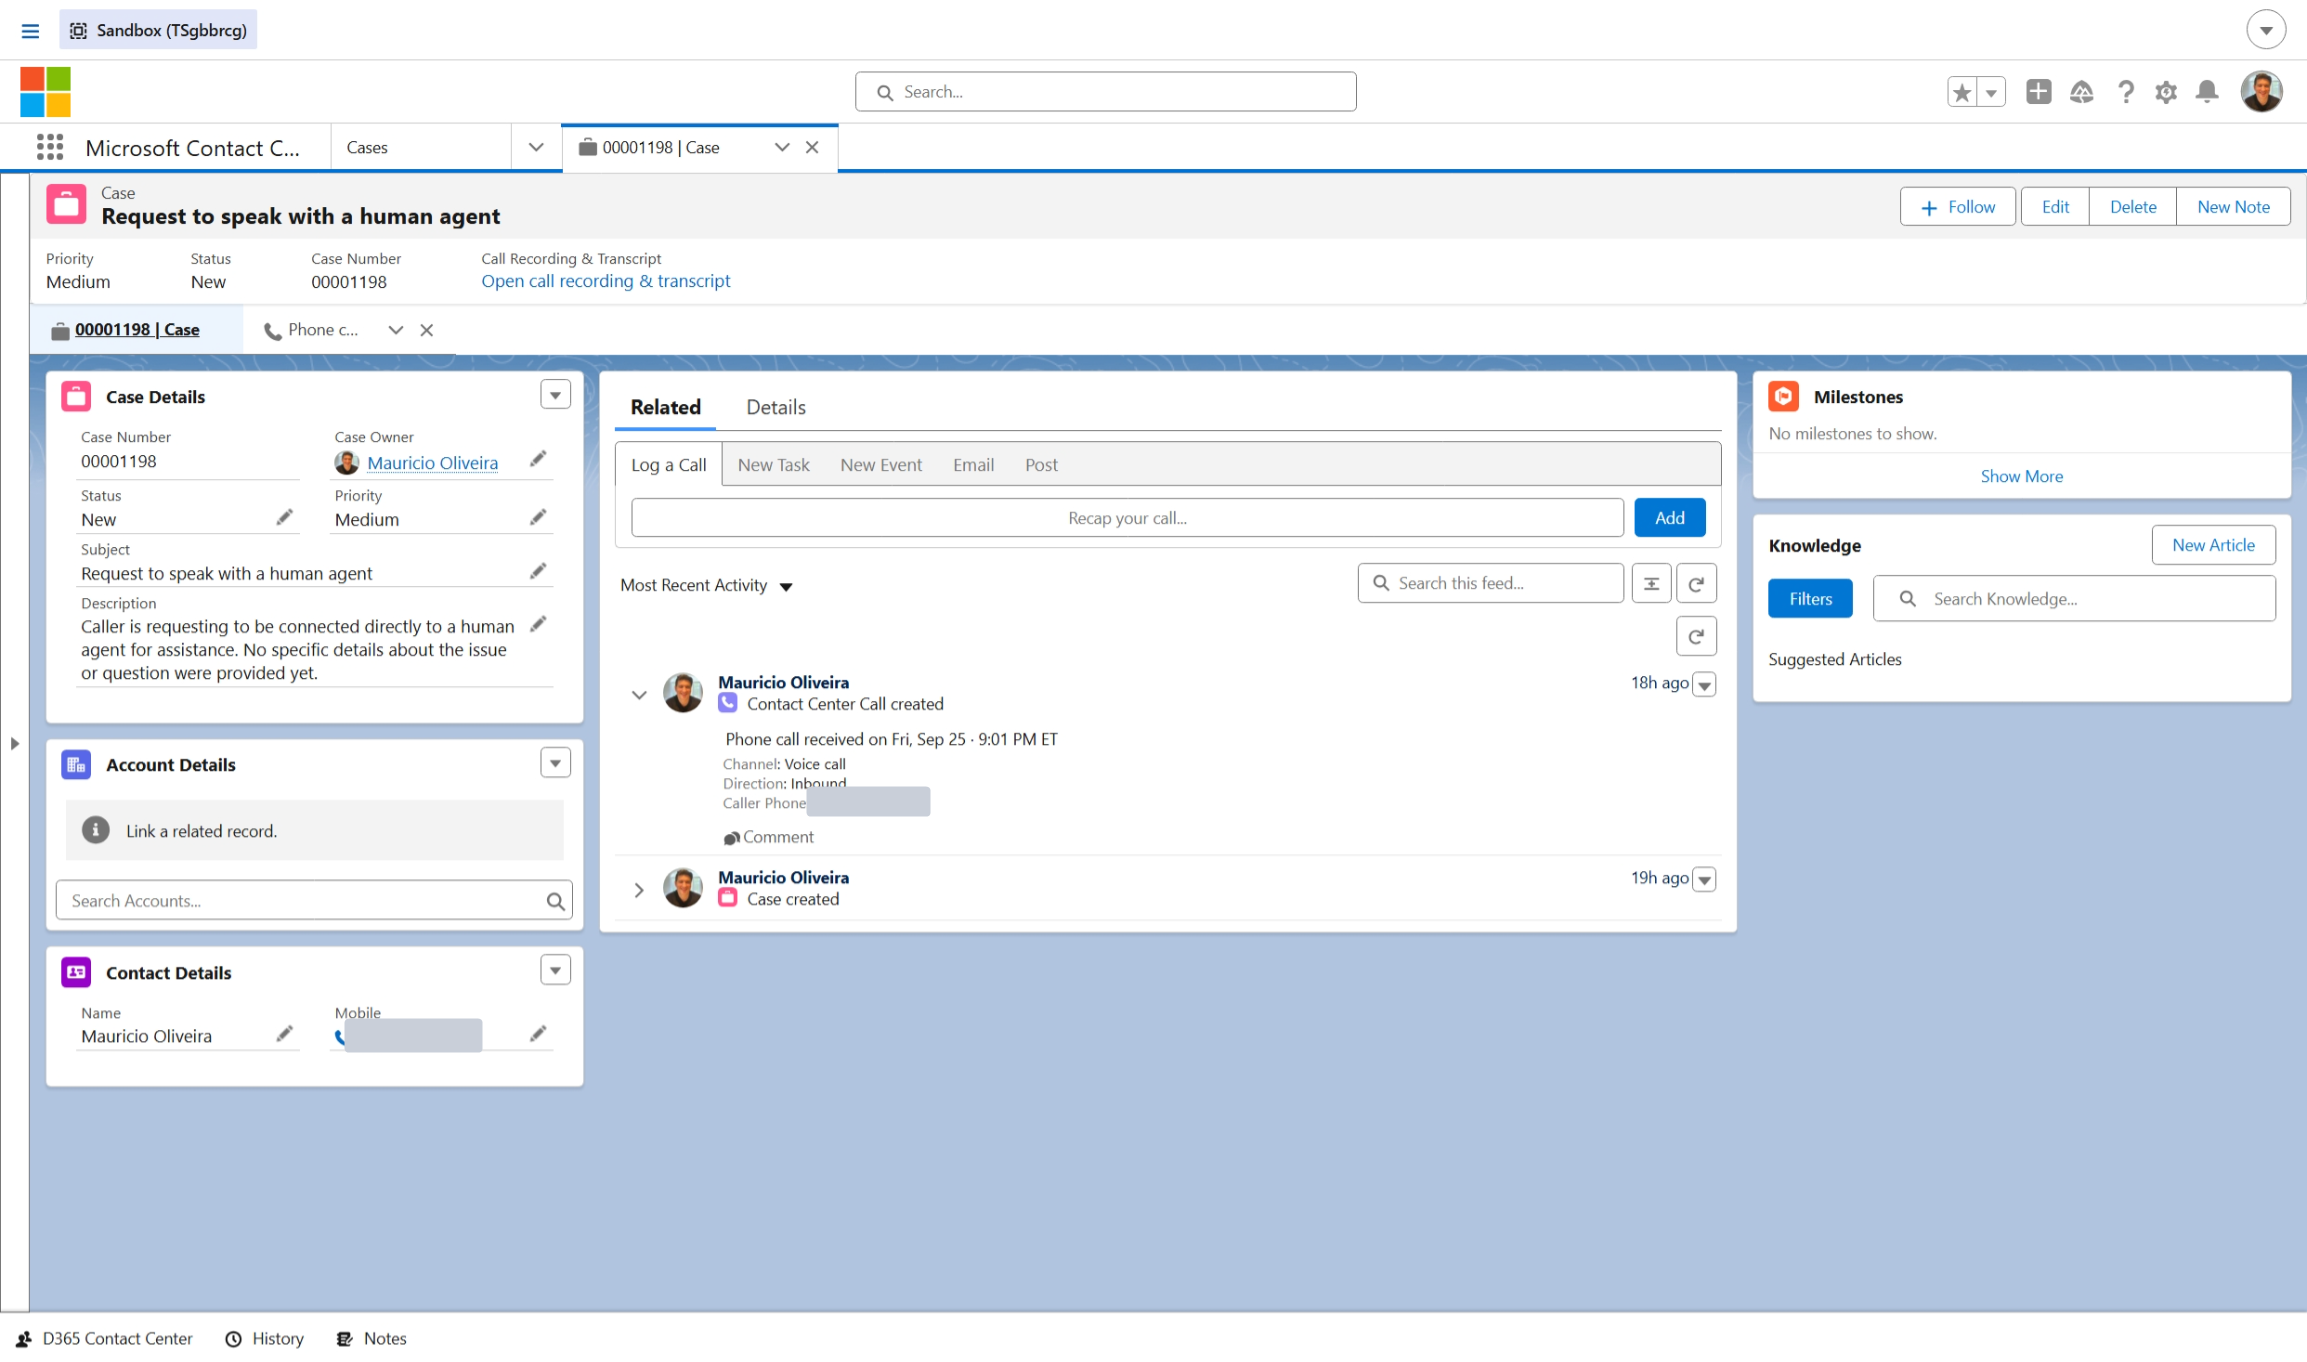
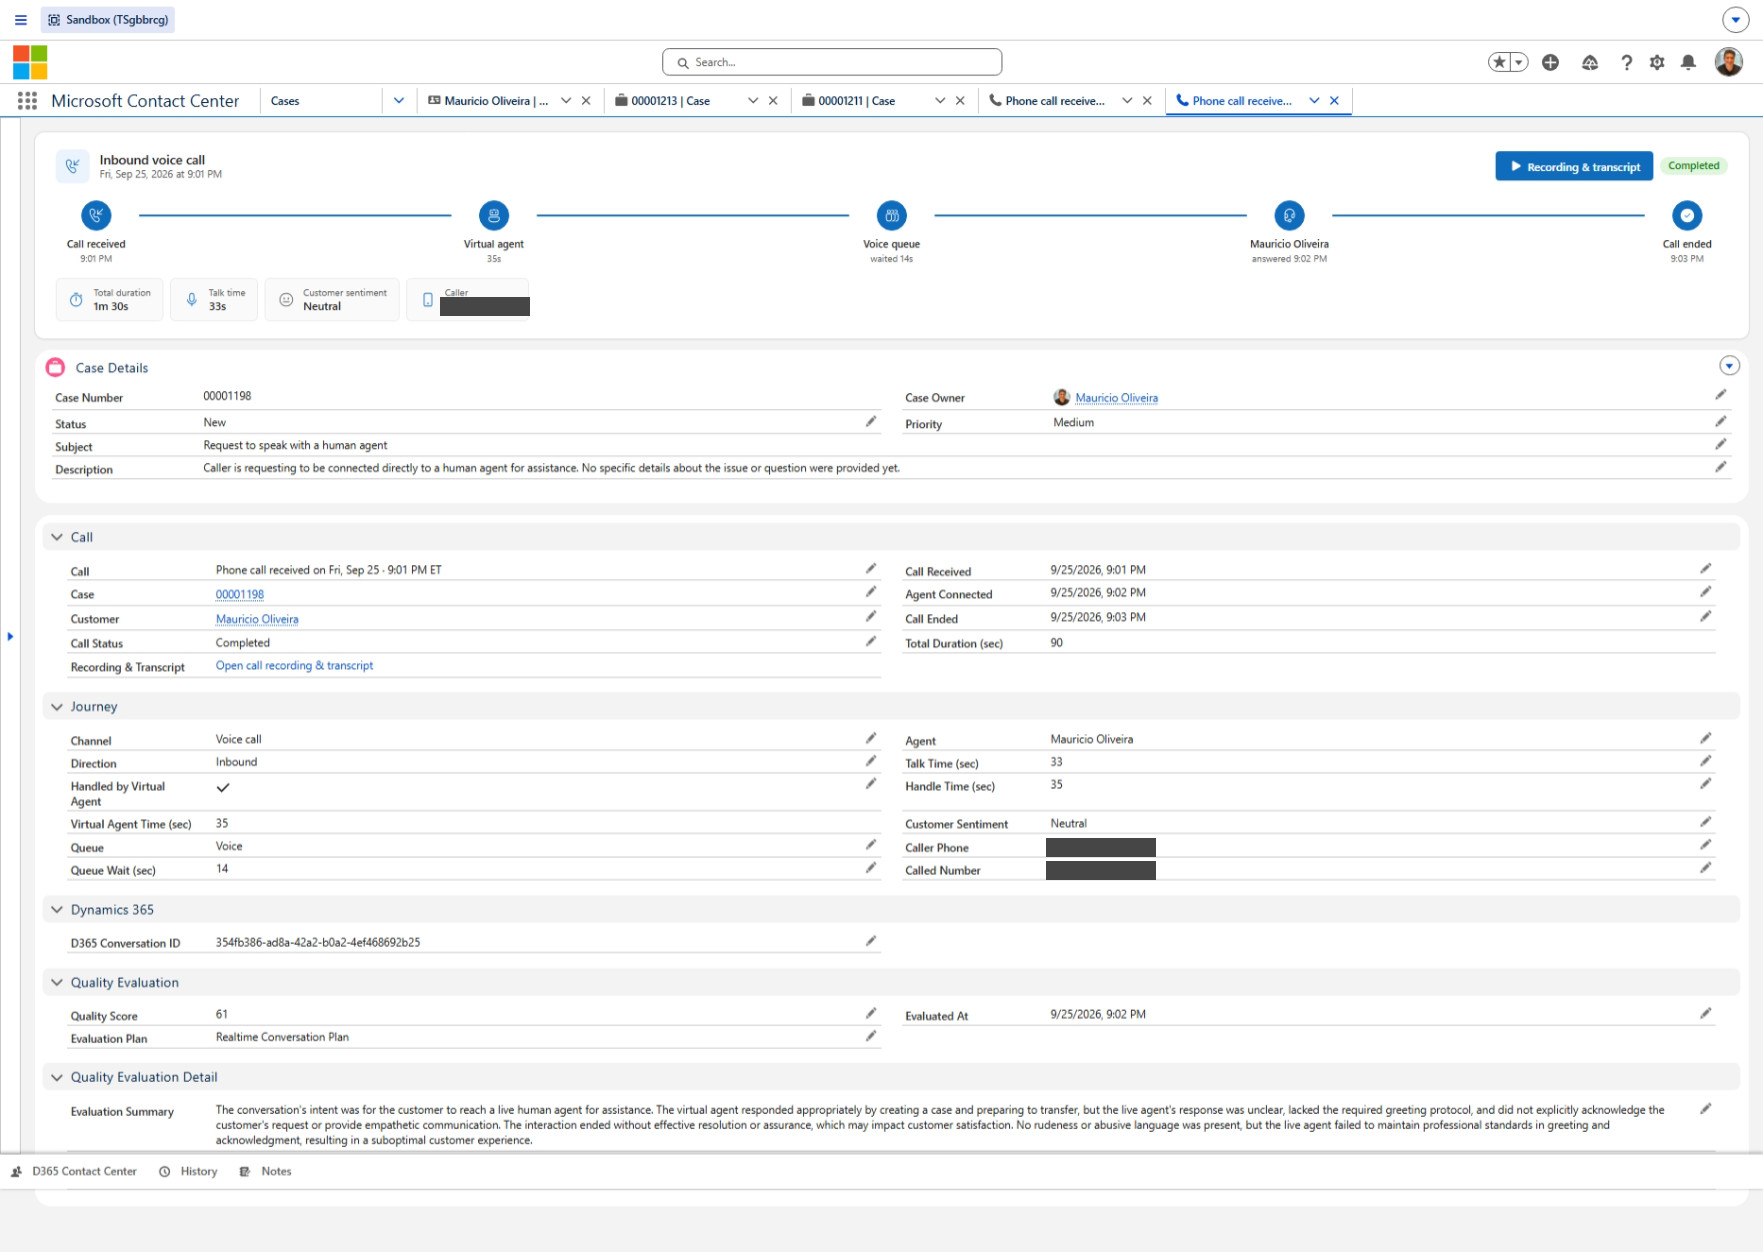
Replace first README screenshot with the new call journey card (phone numbers redacted)

diff --git a/README.md b/README.md
@@ -16,7 +16,7 @@ This project connects the two, so every phone call shows up in Salesforce with i
 
 **1. The IVR creates the Case, and the call shows up on it.** The Case header gets a *Call Recording & Transcript* link, and the feed shows *"Contact Center Call created"* with the call's time, channel, direction and caller.
 
-![Salesforce Case showing the Call Recording & Transcript link and the Contact Center Call entry in the feed](docs/images/salesforce-case.png)
+![Contact Center Call record with the Call Journey card, Recording & transcript button and call details](docs/images/salesforce-case.png)
 
 **2. Open the call to see its whole journey.** *Call received → Virtual agent → Voice queue → Agent answered → Call ended*, with durations, sentiment and caller number. One click on **Recording & transcript** opens the Dynamics 365 recording, transcript and quality evaluation in a pop-up inside Salesforce. The card has the same design as the [ServiceNow version](https://github.com/moliveirapinto/d365-contact-center-servicenow-call-journey).
 
